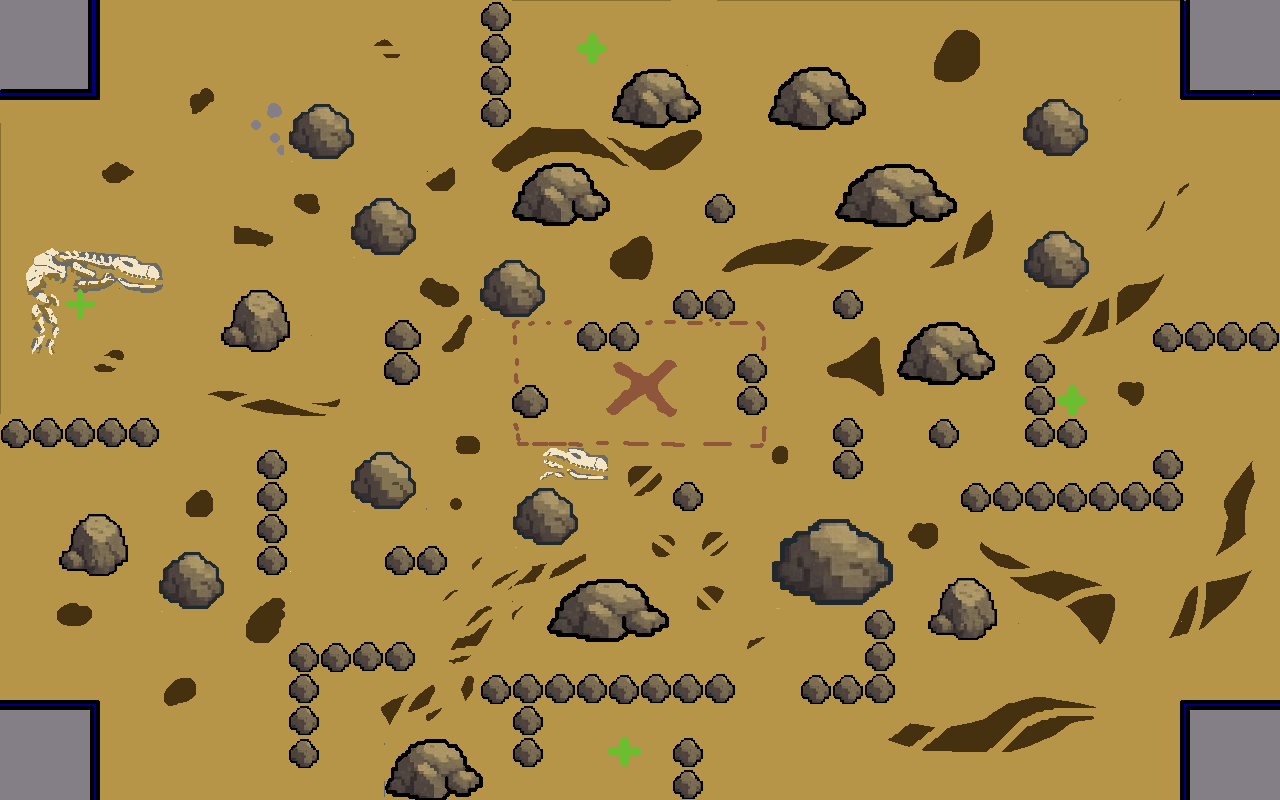
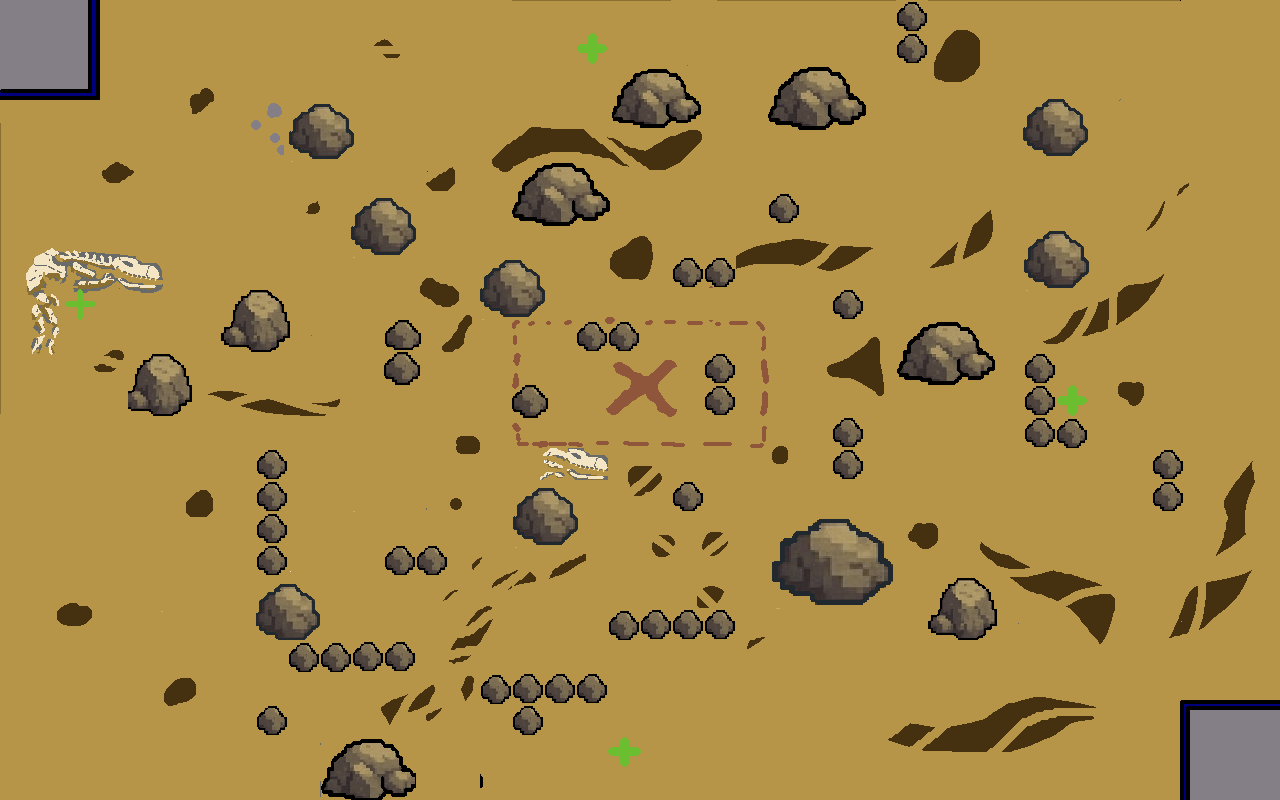
5 notable changes
Extraction is now 3v3 with 2 teams
New map with less obstacles to offload workload
character request now starts pre game
Server now only accept up to 6 clients
Client will conenct to the server first thing

diff --git a/main.py b/main.py
@@ -1,9 +1,19 @@
 import math
 import pygame
+import sys
 
 from client import Client
 from mapSystem import MapSystem
 from projectile import Projectile
+
+host = "127.0.0.1"
+port = 5000
+
+try:
+    client = Client(host, port)
+except ConnectionRefusedError as e:
+    print("Server is not running or lobby is full")
+    sys.exit()
 
 # pygame setup
 pygame.init()
@@ -43,30 +53,21 @@ mage = pygame.image.load("asset/mage.png")
 default_player = pygame.image.load("asset/default_player.png")
 
 #INPUTS
-host = input("Enter host address: ")
-port = int(input("Enter host port: "))
+
 character_choice = "default_player"
 team = 1
 
-client = Client(host, port)
-
 obstacles = [
-    pygame.rect.Rect(64, 512, 63, 63),
-    pygame.rect.Rect(160, 544, 63, 63),
     pygame.rect.Rect(224, 288, 63, 63),
     pygame.rect.Rect(352, 192, 63, 63),
     pygame.rect.Rect(512, 160, 95, 63),
-    pygame.rect.Rect(352, 448, 63, 63),
     pygame.rect.Rect(32, 256, 127, 31),
     pygame.rect.Rect(32, 288, 31, 63),
-    pygame.rect.Rect(0, 416, 159, 31),
     pygame.rect.Rect(256, 448, 31, 127),
     pygame.rect.Rect(288, 96, 63, 63),
-    pygame.rect.Rect(480, 0, 31, 127),
     pygame.rect.Rect(384, 320, 31, 63),
     pygame.rect.Rect(288, 640, 127, 31),
     pygame.rect.Rect(384, 544, 63, 31),
-    pygame.rect.Rect(288, 672, 31, 95),
     pygame.rect.Rect(384, 736, 95, 63),
     pygame.rect.Rect(480, 256, 63, 63),
     pygame.rect.Rect(512, 384, 31, 31),
@@ -75,30 +76,23 @@ obstacles = [
     pygame.rect.Rect(512, 480, 63, 63),
     pygame.rect.Rect(480, 672, 255, 31),
     pygame.rect.Rect(512, 704, 31, 63),
-    pygame.rect.Rect(672, 736, 31, 63),
-    pygame.rect.Rect(544, 576, 127, 63),
+    pygame.rect.Rect(608, 608, 127, 31),
     pygame.rect.Rect(672, 480, 31, 31),
     pygame.rect.Rect(768, 512, 127, 95),
     pygame.rect.Rect(928, 576, 63, 63),
-    pygame.rect.Rect(800, 672, 95, 31),
-    pygame.rect.Rect(864, 608, 31, 63),
-    pygame.rect.Rect(960, 480, 223, 31),
     pygame.rect.Rect(1152, 448, 31, 31),
     pygame.rect.Rect(832, 416, 31, 63),
-    pygame.rect.Rect(928, 416, 31, 31),
     pygame.rect.Rect(1024, 416, 63, 31),
     pygame.rect.Rect(896, 320, 95, 63),
     pygame.rect.Rect(1024, 352, 31, 63),
-    pygame.rect.Rect(736, 352, 31, 63),
+    pygame.rect.Rect(704, 352, 31, 63),
     pygame.rect.Rect(832, 288, 31, 31),
-    pygame.rect.Rect(704, 192, 31, 31),
-    pygame.rect.Rect(832, 160, 127, 63),
+    pygame.rect.Rect(768, 192, 31, 31),
     pygame.rect.Rect(1024, 224, 63, 63),
-    pygame.rect.Rect(672, 288, 63, 31),
+    pygame.rect.Rect(672, 256, 63, 31),
     pygame.rect.Rect(608, 64, 95, 63),
     pygame.rect.Rect(768, 64, 95, 63),
     pygame.rect.Rect(1024, 96, 63, 63),
-    pygame.rect.Rect(1152, 320, 127, 31),
 ]
 
 heal_zone = [
@@ -110,9 +104,7 @@ heal_zone = [
 
 start_zone = [
     [pygame.rect.Rect(0, 0, 96, 96), 1],
-    [pygame.rect.Rect(1184, 0, 96, 96), 2],
     [pygame.rect.Rect(1184, 704, 96, 96), 3],
-    [pygame.rect.Rect(0, 704, 96, 96), 4],
 ]
 
 character_zone = [
@@ -125,13 +117,11 @@ teammate_data = {}
 
 capture_zone = pygame.rect.Rect(512, 320, 255, 127)
 
-team_progress = {"1": 0, "2": 0, "3": 0, "4": 0}
+team_progress = {"1": 0, "2": 0}
 
 spawn_zone = [
     pygame.rect.Rect(0, 0, 96, 96),
-    pygame.rect.Rect(1184, 0, 96, 96),
     pygame.rect.Rect(1184, 704, 96, 96),
-    pygame.rect.Rect(0, 704, 96, 96)
 ]
 
 map_system = MapSystem(1280, 800, obstacles, spawn_zone)
@@ -237,13 +227,15 @@ in_winner_screen = True
 dead_timer = 5
 dead_counter = 0
 
-spawn = {"1": [0,0], "2": [1247, 0], "3":[1247, 767], "4": [0, 767]}
+spawn = {"1": [0,0], "2": [1247, 767]}
 
-spawn_bar = {"1": [0,0], "2": [1184, 0], "3":[1184, 704], "4": [0, 704]}
+spawn_bar = {"1": [0,0], "2": [1184, 704]}
 
 win_condition = 100
 
-show_grid = False
+show_grid = True
+
+all_player_character = client.send(["all player character", player.id])
 
 while running:
 
@@ -261,6 +253,10 @@ while running:
             running = False
             in_winner_screen = False
         if event.type == pygame.MOUSEBUTTONDOWN:
+            if event.button == 1:
+                for obstacle in obstacles:
+                    if obstacle.collidepoint(pygame.mouse.get_pos()):
+                        print(obstacle.x, obstacle.y)
             if event.button == 1 and not player.isDead:
                 player.basic_attack(pygame.mouse.get_pos())
             if event.button == 3 and not player.isDead:
@@ -299,9 +295,6 @@ while running:
 
     # This will return {"_id":[[x, y], team, vision], "_id":[[x, y], team, vision]}
     all_player_location = client.send(["all location", [player.rect.x, player.rect.y], team])
-
-    # This will return {"_id": "character name"}
-    all_player_character = client.send(["all player character", player.id])
 
     #This will return {"_id": [[projectile.rect, projectile.rect], player.damage]}
     all_player_projectile = client.send(["all player projectile", player.get_projectile_data(), player.damage])
@@ -354,7 +347,7 @@ while running:
     player.take_damage(total_damage)
 
     #Drawing fog of war
-    map_system.draw()
+    # map_system.draw()
 
     #Drawing progress bar
     for key in team_progress:
@@ -393,6 +386,8 @@ while running:
         for i in map_system.nodes:
             for _node in i:
                 pygame.draw.rect(screen, "red", _node.rect, 1)
+    for _ in obstacles:
+        pygame.draw.rect(screen, "black", _, 2)
 
 
 
@@ -419,10 +414,6 @@ while in_winner_screen:
         pygame.draw.rect(screen, "green", start_zone[0][0])
     elif winner == "2":
         pygame.draw.rect(screen, "green", start_zone[1][0])
-    elif winner == "3":
-        pygame.draw.rect(screen, "green", start_zone[2][0])
-    elif winner == "4":
-        pygame.draw.rect(screen, "green", start_zone[3][0])
 
     pygame.display.flip()
 

diff --git a/server.py b/server.py
@@ -2,7 +2,11 @@ import socket
 import threading
 import pickle
 import random
+from time import sleep
+
 from player import *
+
+MAX_PLAYER = 6
 
 #Client data
 currently_active_player = []
@@ -11,7 +15,7 @@ all_player_character = {}
 all_player_projectile = {}
 all_player_health = {}
 
-team_progress = {"1": 0, "2": 0, "3": 0, "4": 0}
+team_progress = {"1": 0, "2": 0}
 
 #Team Data
 
@@ -76,11 +80,7 @@ def process_data(data, _id):
                 case 1:
                     location = [0,0]
                 case 2:
-                    location = [1247, 0]
-                case 3:
                     location = [1247, 767]
-                case 4:
-                    location = [0, 767]
                 case _:
                     location = [0, 0]
             match data[1]:
@@ -113,11 +113,16 @@ def start_server():
 
     print(f"Server listening on {host}:{port}")
     while True:
-        client_socket, addr = server_socket.accept()
-        client_id = random.random()
-        client_thread = threading.Thread(target=handle_client, args=(client_socket, addr, client_id))
-        client_thread.daemon = True
-        client_thread.start()
+        if len(currently_active_player) < 6:
+            client_id = random.randint(100, 200)
+            if client_id in currently_active_player:
+                continue
+            client_socket, addr = server_socket.accept()
+            client_thread = threading.Thread(target=handle_client, args=(client_socket, addr, client_id))
+            client_thread.daemon = True
+            client_thread.start()
+        else:
+            sleep(1)
 
 if __name__ == "__main__":
     start_server()

diff --git a/player.py b/player.py
@@ -1,7 +1,6 @@
 import pygame
 import math
 import projectile
-import ability
 
 def rotate_point(point, center_point, angle):
 
